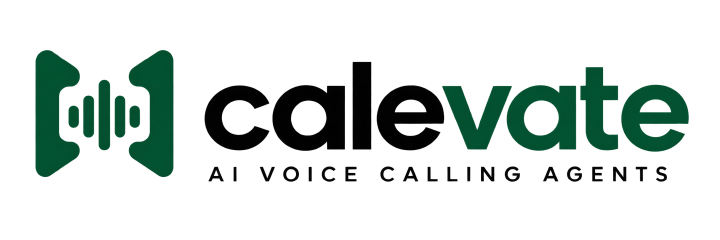
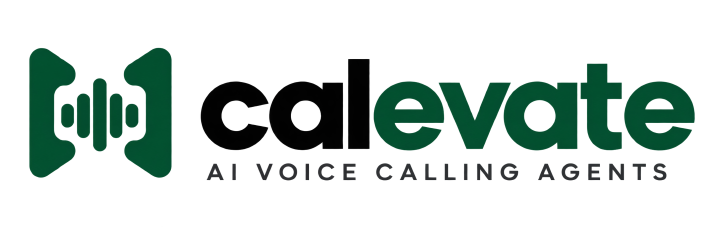
brand: the founder's new lockups, with the ink re-measured rather than assumed
The two new masters came in on `main` at the repo root. They go where the
masters live (`apps/web/public/brand/`), the root copies are removed rather than
left as a second 400 KB home for the same bytes, and `scripts/
generate_brand_assets` re-derived `wordmark.png` and `lockup.png` from them.

`icon.png`, `apple-icon.png` and `favicon.ico` are UNCHANGED and that is
correct: they derive from the square mark, which the founder did not replace.

THE ASPECT RATIOS ARE RE-MEASURED, WHICH IS THE HALF THAT IS NOT A FILE SWAP.
`brand.tsx` states the ink box because every rendered size is derived from it,
and those figures described the OLD artwork. Re-taken from the new files:

  wordmark master 2171x724 — ink rows 140..536 (397px, 54.8%), cols 88..2106
  lockup master   2172x724 — ink rows 143..544 (402px, 55.5%), cols 87..2095

The previous text said "rows 147..540, 54%", which was already a little off for
the old artwork (149..548, 55.2% with the tagline) and is wrong for this one.
The derived 720x240 assets come out at 54.6% and 55.8%, i.e. the masters' ratios
within the downscale's rounding — so the box filter is not distorting them.

⚠ The two masters are no longer the same canvas: without-tagline is 2171 wide
against with-tagline's 2172. One pixel, 0.05%, invisible — and both still emit
at exactly 720x240 on purpose, because a shared output size keeps them
interchangeable at a call site and a 719-wide wordmark would put a half-pixel
[…]

diff --git a/apps/web/src/components/brand.tsx b/apps/web/src/components/brand.tsx
@@ -28,17 +28,34 @@
  * native dependency for a logo is a supply-chain decision (hard rule 9) with a compile on
  * the VPS attached to it, and the thing it would buy — right-sized variants — is bought
  * instead by `scripts/generate_brand_assets.py`, which is run by hand and whose output is
- * committed. The masters are 1024x1024 and 2172x724 (412 KB for the square mark alone);
+ * committed. The masters are 1024x1024 and 2172x724/2171x724 (412 KB for the square mark
+ * alone);
  * what ships here is 21 KB. `width`/`height` are stated on every one of them, so the
  * layout never shifts as they load.
  *
  * ## The canvases are not tight, and the sizes below account for it
  *
- * Measured from the masters rather than guessed: the wordmark and lockup are 3:1
- * canvases whose ink occupies 54% of the height (rows 147..540 of 724), and the square
- * mark's ink is 996x830 centred in 1024x1024. So a wordmark asked to be 40px tall draws
- * about 22px of ink, and the square mark in a 36px box draws 36x30. The numbers passed by
- * callers are canvas sizes; the comments beside them say what ink that yields.
+ * Measured from the masters rather than guessed, and RE-MEASURED when the founder
+ * replaced the two lockups on 5 Sep 2026 — these numbers describe the artwork that is
+ * actually in the repository, so they are re-taken whenever it changes rather than
+ * carried forward:
+ *
+ *   - wordmark master (without tagline), 2171x724: ink rows 140..536 — 397px, 54.8% of
+ *     the height — and cols 88..2106.
+ *   - lockup master (with tagline), 2172x724: ink rows 143..544 — 402px, 55.5% — and
+ *     cols 87..2095.
+ *   - square mark, unchanged: ink 996x830 centred in 1024x1024.
+ *
+ * So a wordmark asked to be 40px tall draws about 22px of ink, and the square mark in a
+ * 36px box draws 36x30. The numbers passed by callers are canvas sizes; the comments
+ * beside them say what ink that yields.
+ *
+ * ⚠ THE TWO LOCKUPS ARE NOT THE SAME CANVAS ANY MORE. The new without-tagline master is
+ * 2171 wide against the with-tagline's 2172 — one pixel, 0.05%, invisible — but it means
+ * `wordmark.png` and `lockup.png` are both emitted at exactly 720x240 from canvases whose
+ * ratios differ in the fourth decimal. That is deliberate: a shared output size keeps the
+ * two interchangeable at a call site, and the alternative (a 719-wide wordmark) would put
+ * a half-pixel seam on every sidebar to correct a distortion no one can see.
  *
  * ## The size is stated ONCE
  *
@@ -84,7 +101,7 @@ export function BrandWordmark({
   height = 40,
   className = "",
 }: {
-  /** Canvas px. 3:1, so the width is 3x this and the ink is ~54% of it tall. */
+  /** Canvas px. 3:1, so the width is 3x this and the ink is ~55% of it tall. */
   height?: number;
   className?: string;
 }) {
